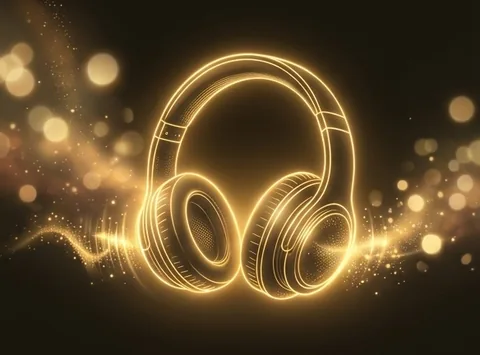
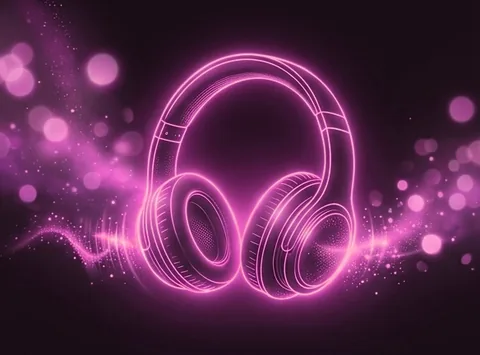
영상 종류별 색상 적용 (야담 금, 분위기 보라핑크, 쇼츠 코랄, 롱폼 파랑)
- 카드 그림을 종류 색으로 변환, 아이콘 칩·부제·hover 테두리 색 통일
- 보관함의 종류 아이콘·태그도 같은 색

Claude-Session: https://claude.ai/code/session_01MLHAynin853k6kADGvXstz

diff --git a/new.html b/new.html
@@ -474,7 +474,20 @@
   .kd[data-kd="mood"]{--kd-img:url(assets/kind-mood.webp)}
   .kd[data-kd="short"]{--kd-img:url(assets/kind-short.webp)}
   .kd[data-kd="long"]{--kd-img:url(assets/kind-long.webp)}
-  .kd[data-kd="mood"]::after{background-size:cover;background-color:#30281b}
+  .kd[data-kd="mood"]::after{background-size:cover}
+  /* 종류별 색: 야담 금 · 분위기 보라핑크 · 쇼츠 코랄 · 롱폼 파랑 (글자색은 테마의 글자색과 섞어 라이트/다크 모두 읽히게) */
+  .kd[data-kd="yadam"]{--kc:#d89a1e;--kp:#1a160d}
+  .kd[data-kd="mood"]{--kc:#c455a8;--kp:#31192a}
+  .kd[data-kd="short"]{--kc:#ec6a47;--kp:#1c110d}
+  .kd[data-kd="long"]{--kc:#4a9be8;--kp:#0c131b}
+  .kd::after{background-color:var(--kp)}
+  .kd .kd-ic{color:color-mix(in srgb,var(--kc) 72%,var(--ink));background:color-mix(in srgb,var(--kc) 17%,transparent)}
+  .kd .kd-t{color:color-mix(in srgb,var(--kc) 68%,var(--ink))}
+  .kd:hover{border-color:var(--kc);box-shadow:0 0 0 1px var(--kc)}
+  .kd.off{--kc:var(--ink-faint)}
+  .sh-ic.yadam,.kd-tag.yadam{--kc:#d89a1e}.sh-ic.mood,.kd-tag.mood{--kc:#c455a8}.sh-ic.short,.kd-tag.short{--kc:#ec6a47}.sh-ic.long,.kd-tag.long{--kc:#4a9be8}
+  .sh-ic.yadam,.sh-ic.mood,.sh-ic.short,.sh-ic.long{color:color-mix(in srgb,var(--kc) 72%,var(--ink));background:color-mix(in srgb,var(--kc) 17%,transparent)}
+  .kd-tag.yadam,.kd-tag.mood,.kd-tag.short,.kd-tag.long{color:color-mix(in srgb,var(--kc) 68%,var(--ink));border-color:color-mix(in srgb,var(--kc) 55%,transparent)}
   .kd.off::after{display:none}
   .kd b,.kd .kd-t,.kd .kd-d{max-width:56%}
   @media (max-width:560px){.kd::after{width:36%}.kd b,.kd .kd-t,.kd .kd-d{max-width:58%}}
@@ -4560,7 +4573,7 @@ new MutationObserver(upd).observe(log,{childList:true,subtree:false});if(row)new
     hub.innerHTML='<div class="sh-in"><div class="sh-top"><h2>어떤 영상의 대본인가요?</h2><p class="sub">고르면 그 영상에 맞는 입력 칸이 열려요.</p>'+
     '<div class="sh-priv"><span class="pi">'+IC.lock+'</span><p>대본은 <b>이 브라우저의 보관함</b>에만 저장돼요. 영상 제작을 시작할 때만 서버로 전달돼요. 야담·분위기 영상은 제작이 끝나면 서버의 대본이 지워지고, 쇼츠·롱폼 대본은 프로젝트와 함께 보관돼요. 브라우저 데이터를 지우면 보관함이 사라지니 필요한 대본은 파일로 내려받아 두세요.</p></div></div>'+
     '<div>'+hd(IC.grid,'영상 종류')+'<div class="kd-grid">'+kinds.map(function(k){return'<button type="button" class="kd'+(k[4]?'':' off')+'" data-kd="'+k[0]+'" aria-disabled="'+(!k[4])+'"><span class="kd-ic">'+IC[k[0]]+'</span>'+(k[4]?'':'<em class="kd-badge">준비 중</em>')+'<b>'+k[1]+'</b><span class="kd-t">'+(k[4]?k[2]:'곧 열려요')+'</span><span class="kd-d">'+k[3]+'</span></button>'}).join('')+'</div></div>'+
-    '<div>'+hd(IC.box,'보관함',L.length?'<span class="sh-cnt">'+L.length+'</span>':'')+'<div class="sh-lib">'+(L.length?L.map(function(x,i){var m=x.kind==='mood',g=x.kind==='gen';return'<div class="sh-item"><span class="sh-ic'+(m?' mood':'')+'">'+(m?IC.mood:g?(x.form==='롱폼'?IC.long:IC.short):IC.yadam)+'</span><span class="sh-tx"><b>'+esc(x.title)+'</b><small><i class="kd-tag'+(m?' mood':'')+'">'+(m?'분위기 영상':g?esc(x.form||'쇼츠'):'야담')+'</i>'+(m?'약 '+Math.round((x.minutes||0)*60)+'초':g?(x.form==='롱폼'?'약 '+(Math.round((x.chars||0)/360*10)/10)+'분':(function(){var sec=Math.round(Math.max(0.25,Math.round((x.chars||0)/360*10)/10)*60);return '약 '+(sec<60?sec+'초':(sec%60?Math.floor(sec/60)+'분 '+(sec%60)+'초':(sec/60)+'분'))})()):'약 '+x.minutes+'분')+'</small></span><span class="sh-act">'+(m?(window.__rwGoMood?'<button class="sh-use" data-mm="'+i+'">영상 만들기</button>':'<button disabled title="곧 열려요">영상 만들기 · 곧</button>'):g?'<button class="sh-use" data-mg="'+i+'">영상 만들기</button>':'<button class="sh-use" data-mk="'+i+'">야담 만들기</button>')+'<button data-open="'+i+'">열기</button><button class="sh-del" data-del="'+i+'">삭제</button></span></div>'}).join(''):'<div class="sh-empty"><span class="pi">'+IC.box+'</span><span class="sh-et"><b>아직 보관된 대본이 없어요</b><small>위에서 영상 종류를 골라 대본을 쓰고 확정하면 여기에 저장돼요.</small></span></div>')+'</div></div>'+
+    '<div>'+hd(IC.box,'보관함',L.length?'<span class="sh-cnt">'+L.length+'</span>':'')+'<div class="sh-lib">'+(L.length?L.map(function(x,i){var m=x.kind==='mood',g=x.kind==='gen';return'<div class="sh-item"><span class="sh-ic'+(m?' mood':g?(x.form==='롱폼'?' long':' short'):' yadam')+'">'+(m?IC.mood:g?(x.form==='롱폼'?IC.long:IC.short):IC.yadam)+'</span><span class="sh-tx"><b>'+esc(x.title)+'</b><small><i class="kd-tag'+(m?' mood':g?(x.form==='롱폼'?' long':' short'):' yadam')+'">'+(m?'분위기 영상':g?esc(x.form||'쇼츠'):'야담')+'</i>'+(m?'약 '+Math.round((x.minutes||0)*60)+'초':g?(x.form==='롱폼'?'약 '+(Math.round((x.chars||0)/360*10)/10)+'분':(function(){var sec=Math.round(Math.max(0.25,Math.round((x.chars||0)/360*10)/10)*60);return '약 '+(sec<60?sec+'초':(sec%60?Math.floor(sec/60)+'분 '+(sec%60)+'초':(sec/60)+'분'))})()):'약 '+x.minutes+'분')+'</small></span><span class="sh-act">'+(m?(window.__rwGoMood?'<button class="sh-use" data-mm="'+i+'">영상 만들기</button>':'<button disabled title="곧 열려요">영상 만들기 · 곧</button>'):g?'<button class="sh-use" data-mg="'+i+'">영상 만들기</button>':'<button class="sh-use" data-mk="'+i+'">야담 만들기</button>')+'<button data-open="'+i+'">열기</button><button class="sh-del" data-del="'+i+'">삭제</button></span></div>'}).join(''):'<div class="sh-empty"><span class="pi">'+IC.box+'</span><span class="sh-et"><b>아직 보관된 대본이 없어요</b><small>위에서 영상 종류를 골라 대본을 쓰고 확정하면 여기에 저장돼요.</small></span></div>')+'</div></div>'+
     '<div>'+hd(IC.steps,'이 대본으로 영상 만드는 법')+'<ol class="sh-steps"><li><span class="st-i">'+IC.write+'</span><span>대본을 쓰고 <b>확정</b>하면 보관함에 저장돼요.</span></li><li><span class="st-i">'+IC.click+'</span><span>왼쪽 <b>직접 설정하기</b>를 누르고 같은 종류의 영상을 골라요.</span></li><li><span class="st-i">'+IC.card+'</span><span><b>내 대본</b> 카드에서 저장한 대본을 눌러요.</span></li></ol></div></div>';
     hub.querySelectorAll('[data-kd]').forEach(function(b){b.onclick=function(){var k=b.dataset.kd;if(k==='yadam'||k==='mood')openFrame('long','mine',null,null,k);else openFrame('long','mine',null,null,'gen',k==='long'?'롱폼':'쇼츠')}});
     hub.querySelectorAll('[data-mk]').forEach(function(b){b.onclick=function(){var x=lib()[+b.dataset.mk];window.__rwScript={id:x.id,title:x.title,type:'long',src:'ready',imported:x.imported,minutes:x.minutes};close();if(window.__rwGoYadam)window.__rwGoYadam()}});
